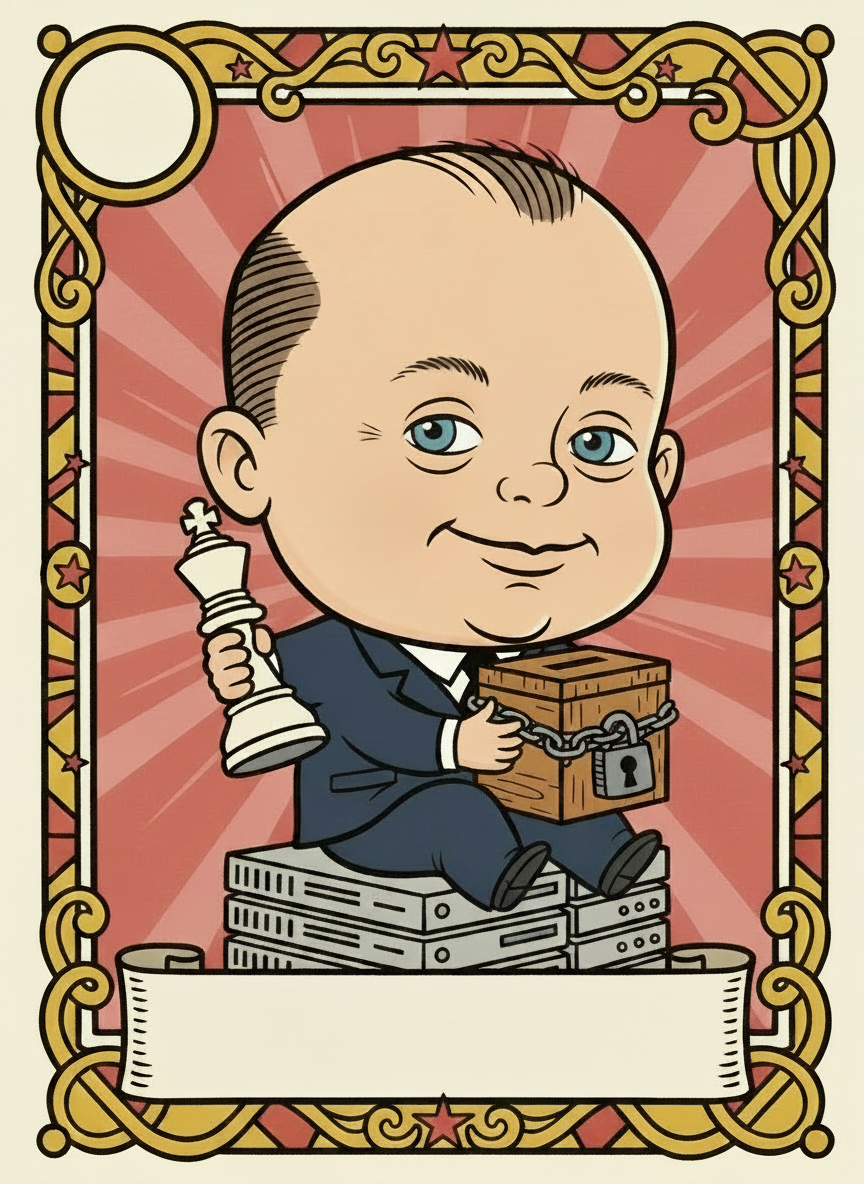
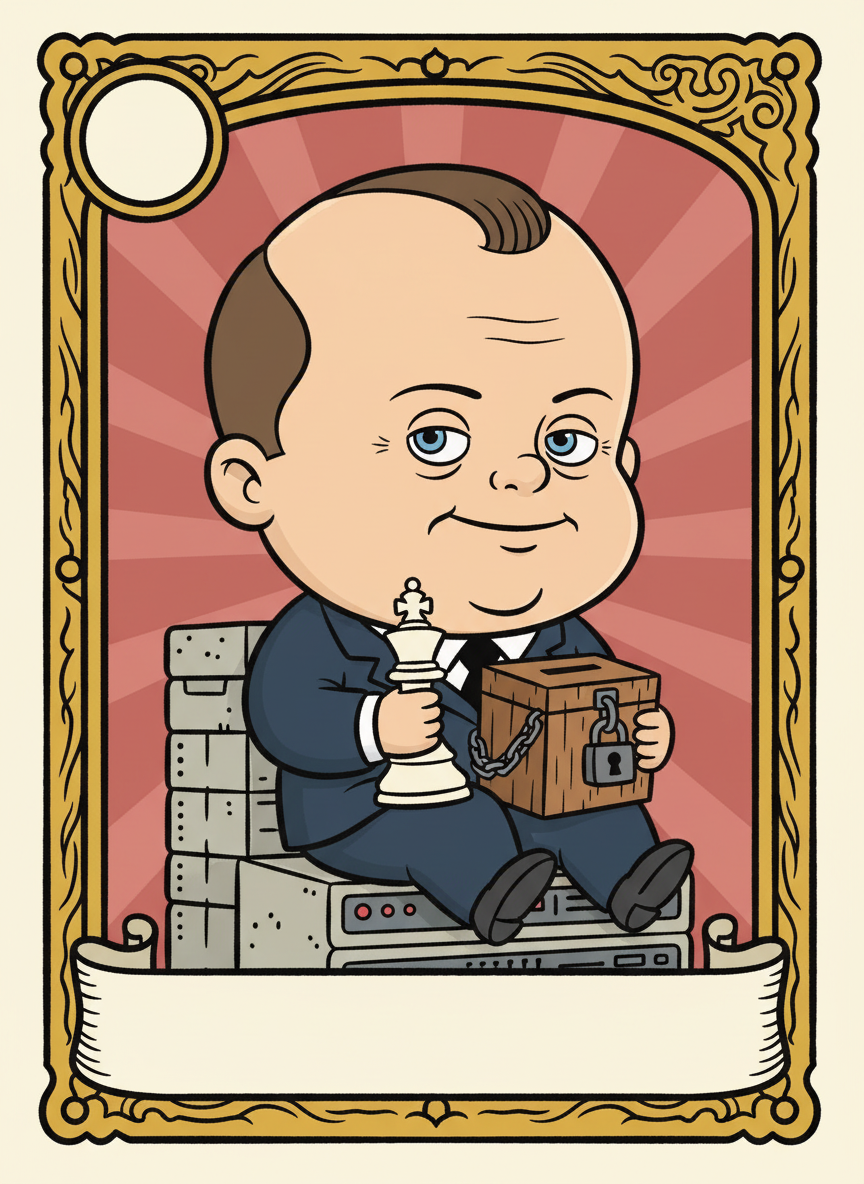
Halloween arch Thiel card: reseed with lap pose so both arms attach at the shoulders

diff --git a/drafts/halloween-arch/build-babies.py b/drafts/halloween-arch/build-babies.py
@@ -43,10 +43,11 @@ CARDS = [
              "very high domed forehead with a receding brown hairline and only a wisp of hair, pale skin, "
              "close-set pale-blue eyes, a tight thin-lipped tense smile",
              "The baby wears a tiny dark-navy business suit with a white collar. He sits atop a stack of "
-             "blocky computer-server bricks like a little throne. In one pudgy fist he grips a tall white "
-             "chess KING piece; with the other arm he hugs a small wooden ballot box sealed shut with a big "
-             "heavy padlock and chain. Keep the face sharply recognizable — high domed forehead, tight thin "
-             "tense smile, close-set pale-blue eyes.",
+             "blocky computer-server bricks like a little throne. Both arms are clearly attached at rounded "
+             "shoulders with natural suit sleeves — no arm coming out of the neck. His right hand rests low "
+             "in his lap holding a tall white chess KING piece upright on his knee; his left arm hugs a small "
+             "wooden ballot box against his side, sealed shut with a big heavy padlock and chain. Keep the face "
+             "sharply recognizable — high domed forehead, tight thin tense smile, close-set pale-blue eyes.",
              "dusty-red field with faint radiating cartoon sunburst")),
     dict(id="karp",  ref="ref-karp.jpg",
          art=baby(
